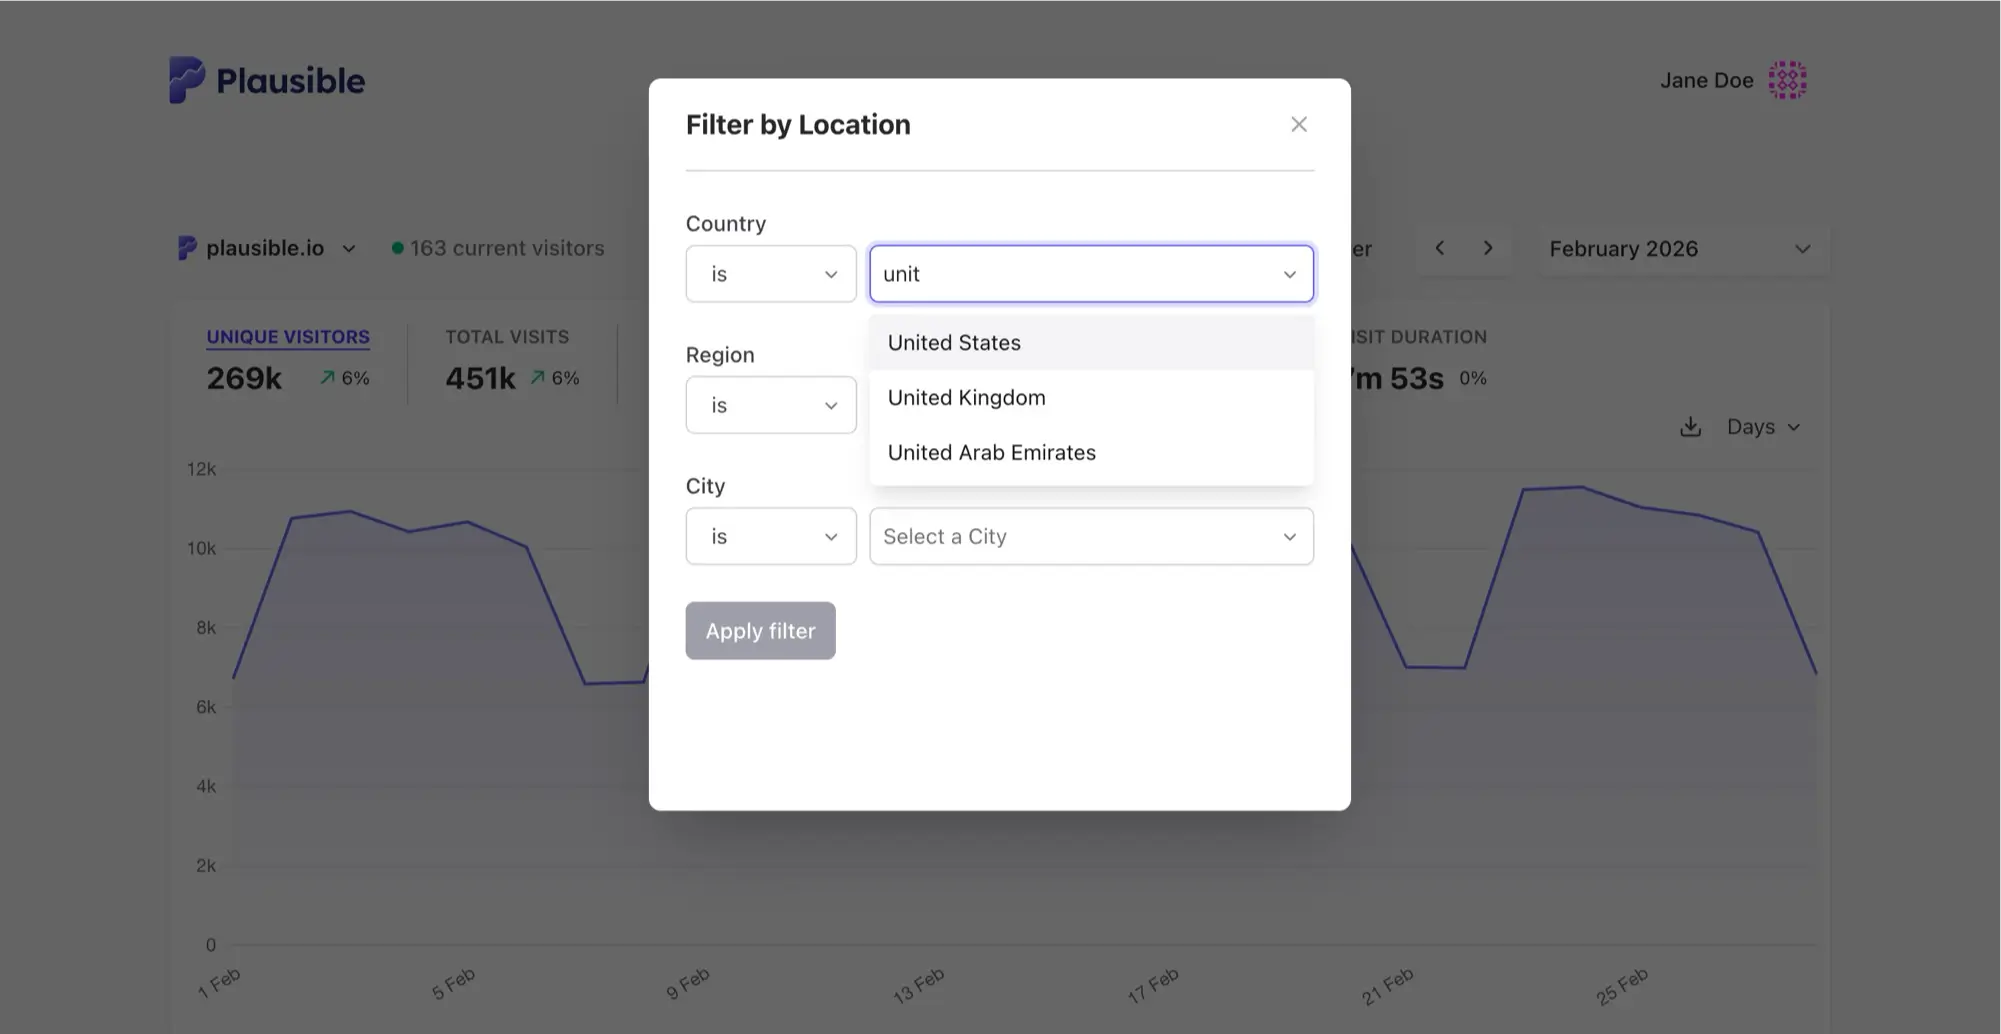
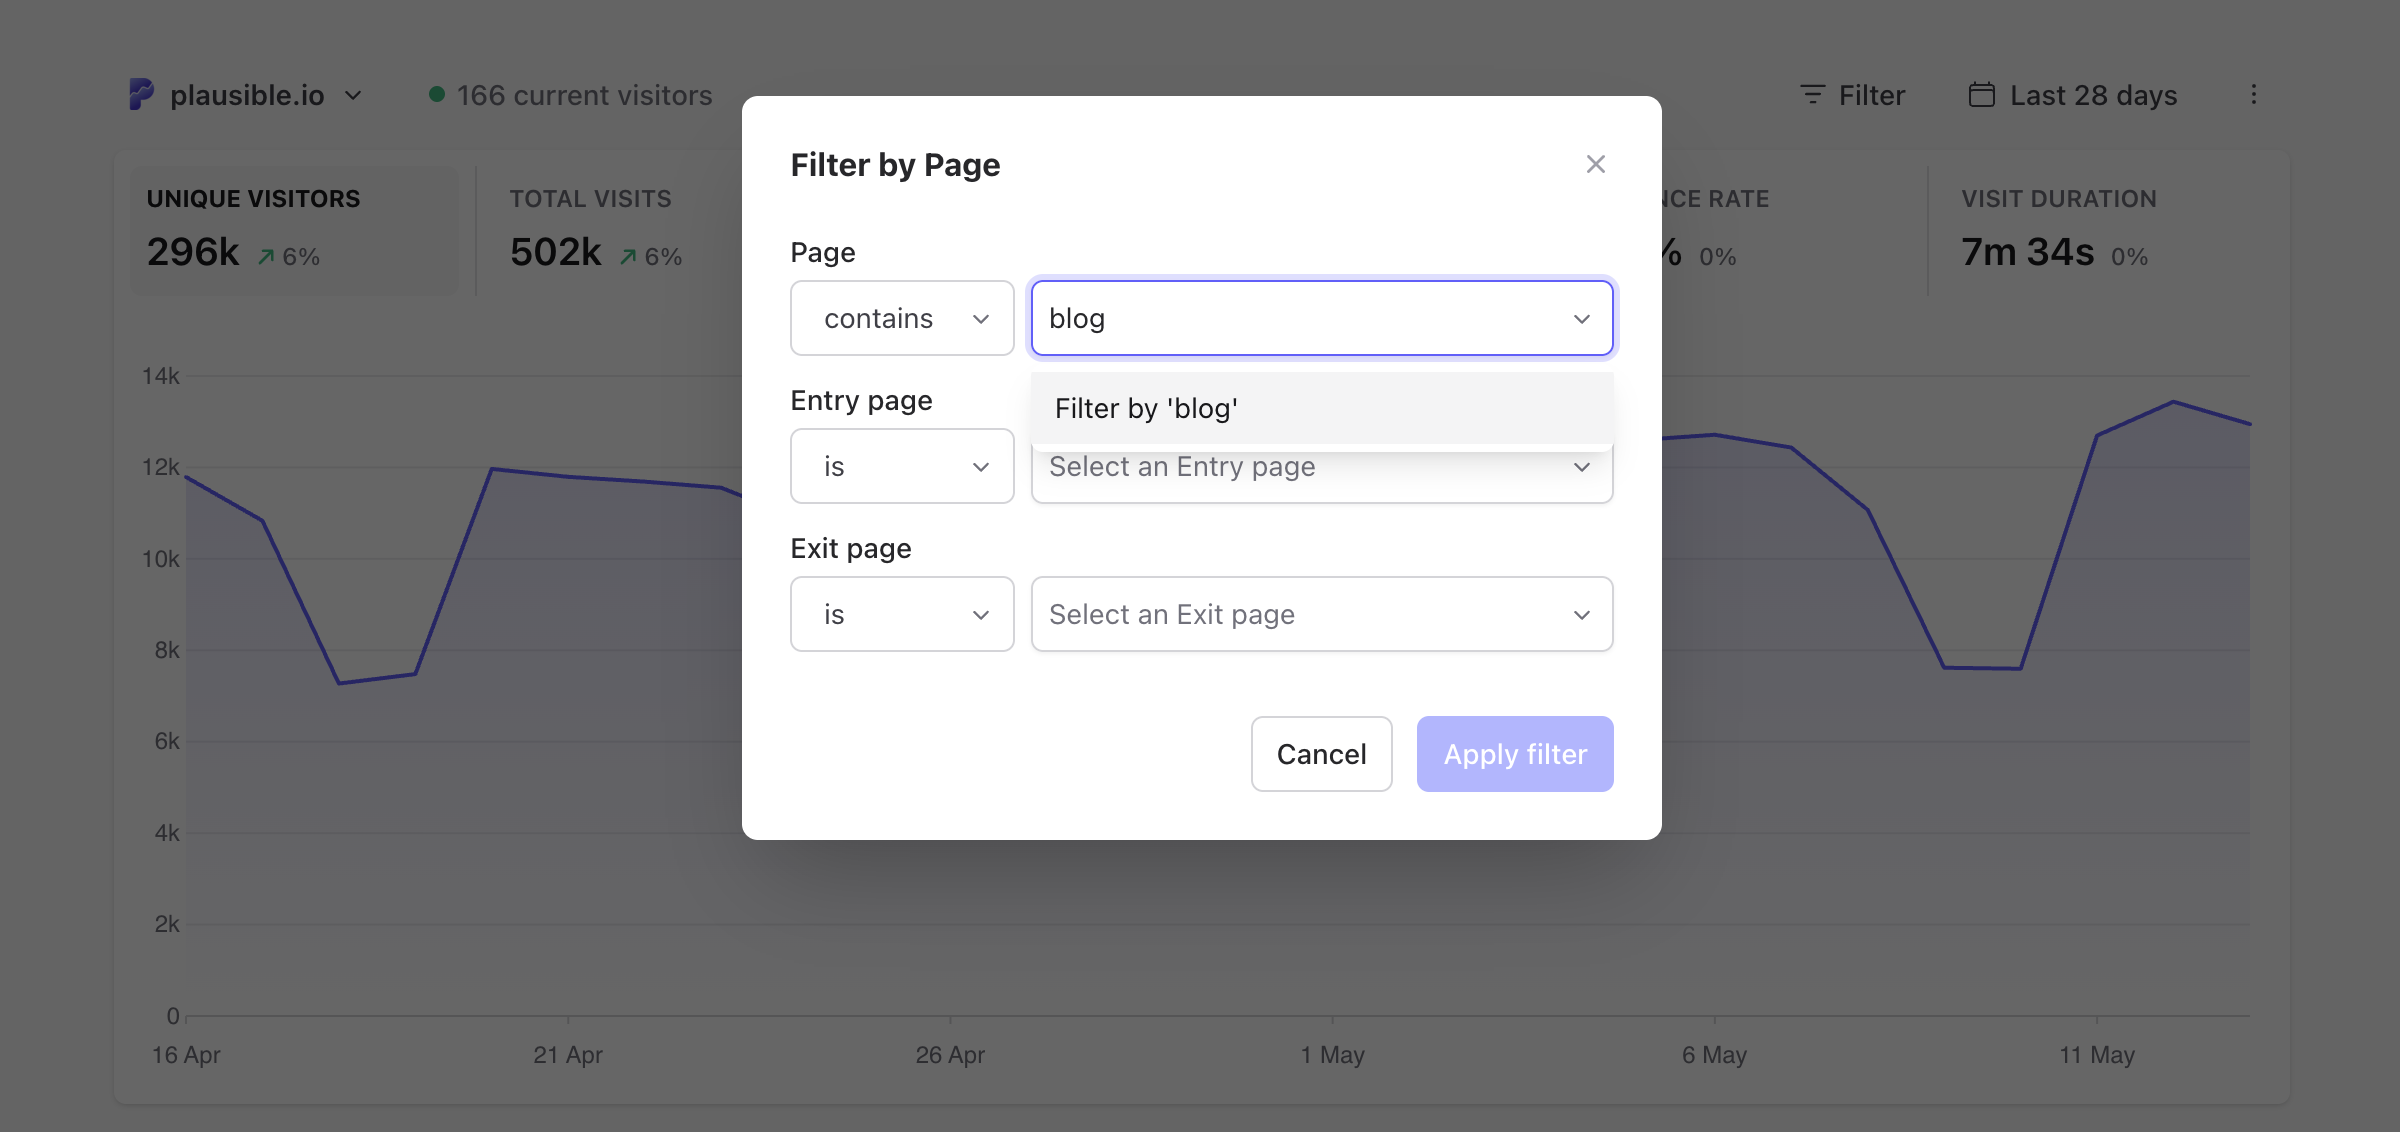
segments update

diff --git a/docs/filters-segments.md b/docs/filters-segments.md
@@ -34,10 +34,6 @@ When you’re trying to understand and analyze your traffic, the **Filter** butt
 
 You can filter your stats by multiple sources, countries, pages and more, all at once. This is useful if you want to group specific geographical regions, separate organic search traffic from other sources or segment your audience to your needs.
 
-<div class="browser">
-    <img alt="Multiple filters" src={useBaseUrl('img/v2/filter-segments-multiple-filters.webp')} />
-</div>
-
 ### Search for any metric
 
 You can search for any metric such as a particular country, referral source or page on your site. Start typing to discover the specific page (or another metric) you're looking for. No need to scroll through the long list of countries or pages.
@@ -52,10 +48,6 @@ You can exclude specific segments of traffic and only display the traffic that i
 
 Click on the **Filter** button, then select **Country** as your metric, choose "is not" (or "does not contain" as an alternative) and then select (or type) the name of the country you want to exclude. You can do the same for referral sources or any of the other metrics.
 
-<div class="browser">
-    <img alt="Exclude traffic" src={useBaseUrl('img/v2/exclude-traffic.webp')} />
-</div>
-
 ### Group relevant pages, marketing campaigns and more
 
 Want to group all your blog posts and analyze the traffic to the blog separately from the rest of your site? Or exclude traffic that has visited a specific section of your site such as your logged in pages or your order confirmation page? Or do you want to group all the traffic from a specific set of marketing campaigns?
@@ -66,10 +58,6 @@ You can group pages, sources, campaigns and more by using the **Filter** button.
 Would you like your grouped pages to be permanently displayed in your dashboard? You can do so by using [pageview goals](pageview-goals.md).
 :::
 
-<div class="browser">
-    <img alt="Filter contains" src={useBaseUrl('img/v2/filter-contains.webp')} />
-</div>
-
 ### Filter by subdomain or hostname
 
 Want to filter by hostname so you can segment your stats to a specific subdomain only? You can do so by using the **Filter** button and choosing the **Hostname** entry within the menu.
@@ -77,10 +65,6 @@ Want to filter by hostname so you can segment your stats to a specific subdomain
 You can choose to segment your traffic by any one specific hostname from the list, you can exclude any one specific hostname or even segment by hostnames that contain any specific word.
 
 Learn more on how Plausible [handles cross-subdomain tracking here](subdomain-hostname-filter.md).
-
-<div class="browser">
-    <img alt="List of subdomains" src={useBaseUrl('img/v2/list-of-hostnames-and-subdomains.webp')} />
-</div>
 
 ## How to save a segment
 